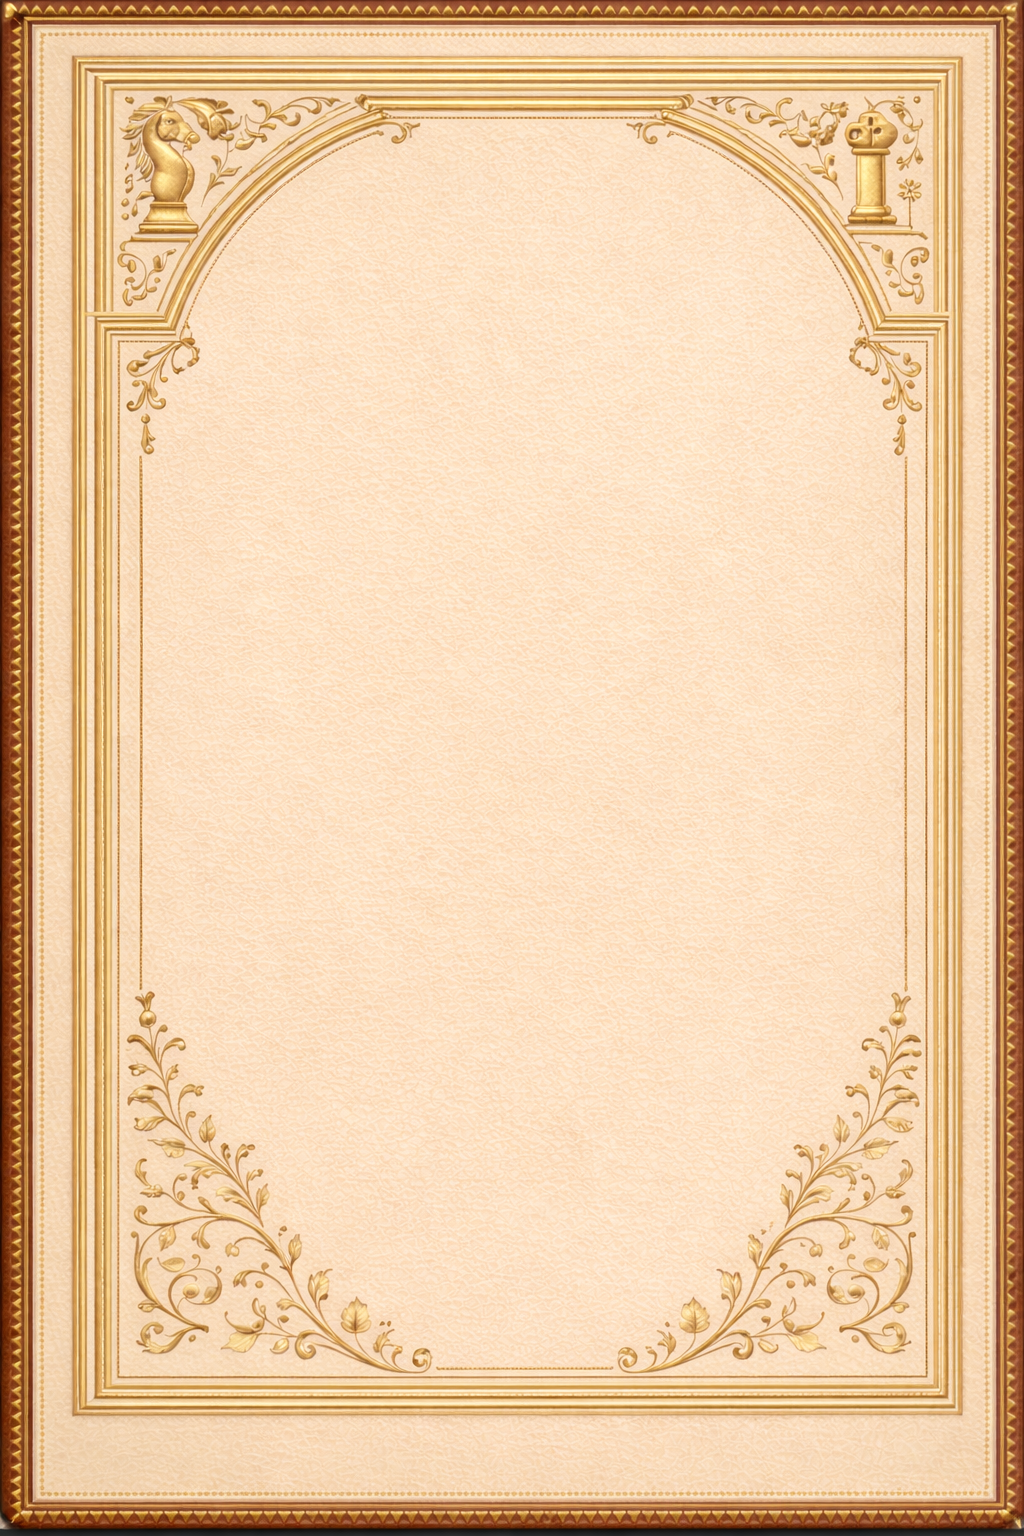
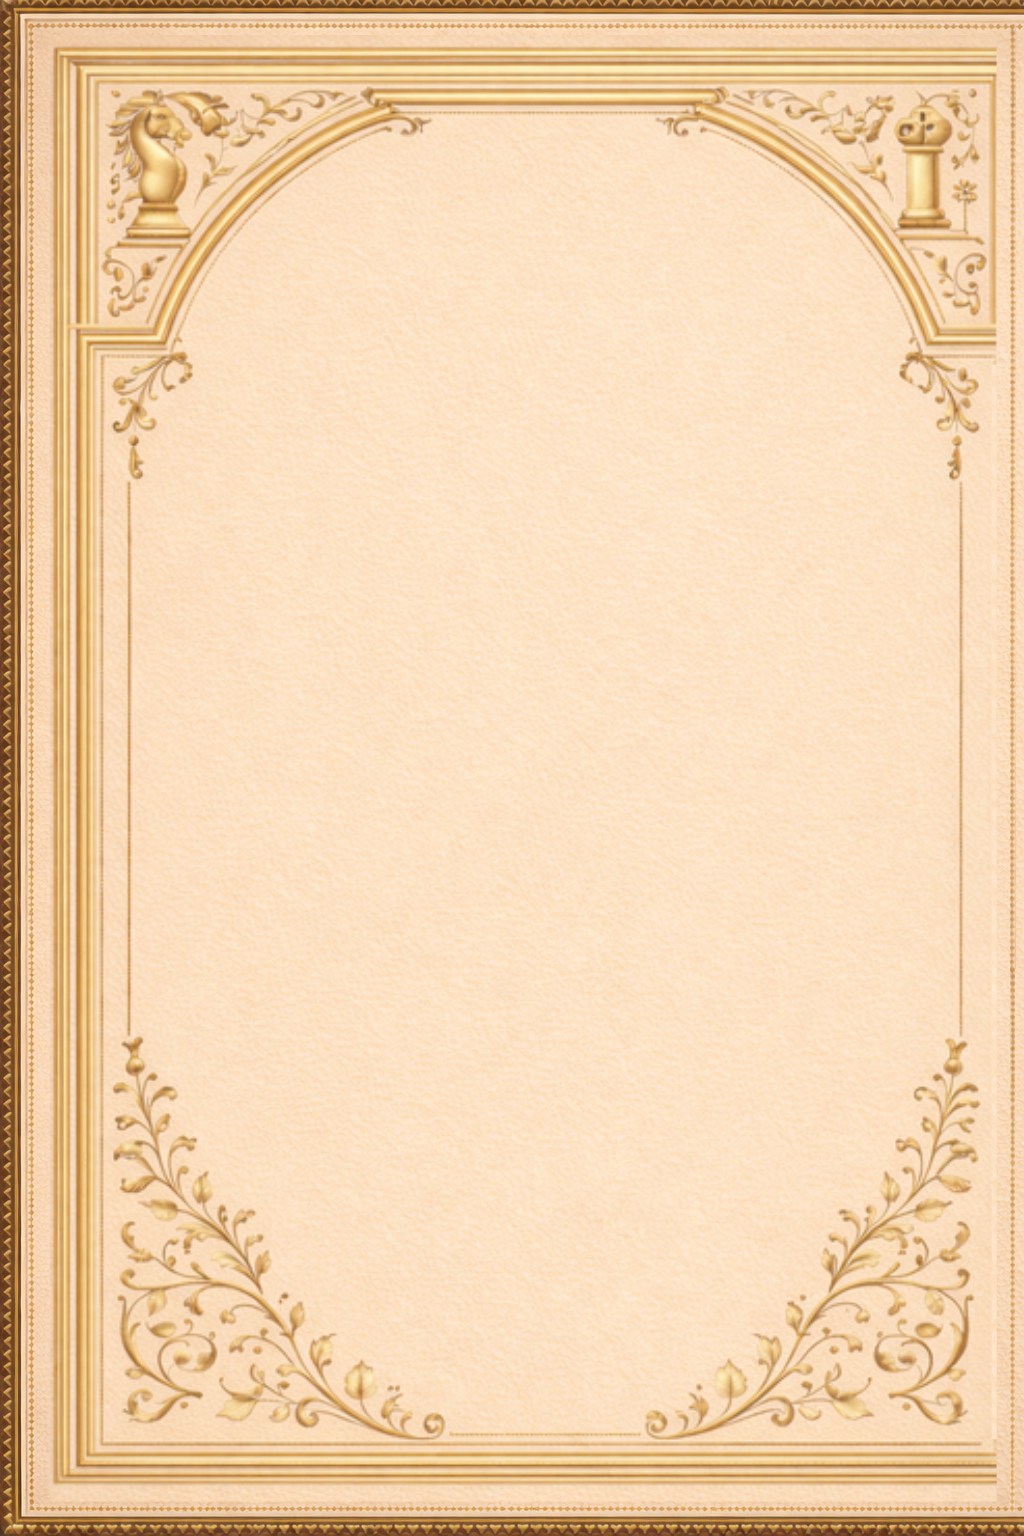
fix (Livro): contracapa antiga

diff --git a/frontend/src/app/components/sheet/sheet.component.scss b/frontend/src/app/components/sheet/sheet.component.scss
@@ -66,12 +66,20 @@
 		left: 0;
 		background-image: inherit;
 		background-size: 100% 100%;
+		background-repeat: no-repeat;
 		background-position: center;
+		pointer-events: none;
 		@include tamanho;
 	}
 
 	.frentePage {
+		position: relative;
 		background-image: url('./../../../../public/livro/contracapa.png') !important;
+
+		&::before {
+			transform: scaleX(-1);
+			transform-origin: center;
+		}
 	}
 }
 
@@ -81,7 +89,7 @@
 	}
 
 	.versoPage {
-		box-shadow: inset 0px 0 30px 0px #240a0380, -20px 0px 20px 0px #000000b3;
+		box-shadow: inset 0px 0 30px 0px #240a0380, -20px 0px 20px 10px #00000030;
 		background-image: url('./../../../../public/livro/contracapa.png') !important;
 	}
 }

diff --git a/frontend/src/app/components/book/book.component.ts b/frontend/src/app/components/book/book.component.ts
@@ -41,7 +41,7 @@ export class BookComponent implements OnInit {
 		if (this.isWaiting) return;
 
 		this.isWaiting = true;
-		setTimeout(() => { this.isWaiting = false; this.cdr.detectChanges(); }, 500);
+		setTimeout(() => { this.isWaiting = false; this.cdr.detectChanges(); }, 600);
 
 		const maiorZIndex = Math.max(...this.zIndexValues);
 		this.zIndexValues[pageIndex] = maiorZIndex + 1;
